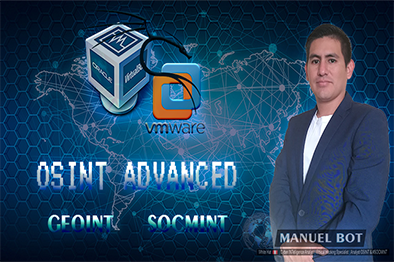
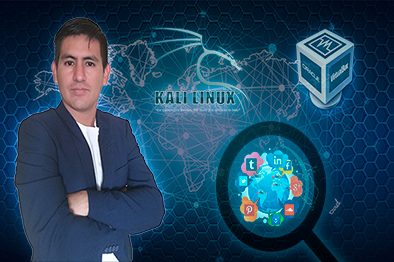
agregar curso

diff --git a/Curso-avanzado.html b/Curso-avanzado.html
@@ -1,0 +1,207 @@
+<!DOCTYPE HTML>
+<html>
+<head>
+<title>SOCMINT AVANZADO. APRENDE DESDE CERO A REALIZAR INVESTIGACIONES EN REDES SOCIALES</title>
+<meta charset="UTF-8">
+<meta name="viewport" content="width=device-width, initial-scale=1, user-scalable=no" />
+<link rel="shortcut icon" href="css/favicon.ico" type="image/x-icon" />	
+<link rel="stylesheet" href="assets/css/main.css" />
+
+	<script type="text/javascript" src="js/jquery-3.3.1.min.js"></script>
+	<script src="js/jquery.snow.js"></script>
+	<script>
+		$(document).ready( function(){
+		$.fn.snow({
+		});
+		});
+		</script>
+</head>
+<body>
+	
+
+<!-- Wrapper -->
+<div id="wrapper">
+
+
+<div class="content">
+<div class="inner">
+<div align="center">	
+<h1>SOCMINT AVANZADO. <BR>
+	APRENDE DESDE 0 A REALIZAR INVESTIGACIONES <BR>EN REDES SOCIALES</h1>
+</div>
+<div align="center">	
+  <img src="images/SOCMINT AVANZADO.png" width="650" height="350"/><br>
+</div>
+	<div align="center">
+	Aprendizaje continuo y avanzado en este ámbito digital, empezando desde una securización <br>
+	hasta la identificación digital de personas.
+		<br>
+		</div>
+	<div align="center">	<br>
+<h1> Fecha y Hora de lanzamiento: <br></h1>
+⭐ LUNES 29 DE MAYO - 08:00 HORAS (UTC -5 PERÚ)	 <br><br>	</div>
+		<div align="center">
+			
+<h1> LO QUE APRENDERÁS: <br></h1>		</div>
+	
+📘 Describirás, comprenderás e interiorizar las diversas metodologías para iniciar ciberinvestigaciones de forma segura, anónima, legal y profesional.<br>
+📘 Conocerás cómo securizar nuestra identidad, entorno de trabajo de manera efectiva para la ciberinvestigación de una persona, organización o empresa.<br>
+📘 Dominarás las diversas técnicas, métodos y herramientas avanzadas en SOCMINT desde búsquedas básicas hasta el uso de Sistemas Operativos en Máquinas Virtuales.<br>
+📘 Profundizarás su experiencia en la búsqueda de información a través de buscadores, metabuscadores especialmente para OSINT y SOCMINT. <br>
+📘 Aprenderás a utilizar Técnicas y herramientas de búsqueda en Redes Sociales: Facebook, Instagram, Twitter, Linkedin, YouTube, TikTok, Discord y Skype. <br>
+📘 Aprenderás a utilizar Técnicas y herramientas de búsqueda en las diferentes aplicaciones de mensajería como Telegram, WhastApp y WeChat.<br>
+📘 Aprenderás a realizar monitoreo de información con Herramientas aplicadas en OSINT. <br>
+📘 Conocerás y aplicarás Técnicas y herramientas de búsqueda de datos e información de targets (emails, teléfonos, nombres de usuarios, entre otros)<br>
+📘 Conocerás el ambiente de la obtención de información a través de Bots de Telegram, empezando siempre desde una buena securización de nuestra huella digital.<br>
+📘 Otros.<br>
+	
+	
+<div align="center">	
+<h1> ACERCA DE ESTE CURSO: <br></h1>
+</div>
+	
+🔎 Más de 22 clases en Total.<br>
+🔎 Más de 22 recursos descargables (Presentaciones, Recursos, entre otros.)
+🔎 Videos asíncronos de 11 horas de duración total.<br>
+<div align="center">	<br>
+	
+<h1> REQUISITOS: <br></h1>
+</div>
+👨🏻💻 No se necesita contar con experiencia en programación ni en informática.<br>
+👨🏻💻 Contar con muchas ganas de aprender.<br>
+👨🏻💻 Contar con una computadora o equipo portatil para el desarrollo del Laboratorio OSINT y SOCMINT.<br>
+
+<div align="center">	<br>
+<h1> Descripción: <br></h1>
+</div>	
+<div align="center">	<br>
+El empleo de métodos, técnicas y herramientas OSINT dedicados exclusivamente a las redes sociales (SOCMINT) se ha visto <br>
+incrementado de manera exponencial, todo esto es debido a que su uso está cada vez más extendido en distintos campos de: <br>
+Ciberinteligencia y Ciberseguridad. <br> <br>
+
+El único fin de realizar una ciberinvestigación en este campo funcional es producir inteligencia a través de la obtención <br>
+de información detallada de personas, números telefónicos, correos electrónicos, imágenes, geolocalización, entre otros, <br>
+por lo cual también es muy indispensable realizar ciberinvestigaciones exclusivamente en las diferentes redes sociales como: <br>
+Facebook, Twitter, LinkedIn, Youtube, TikTok, Discord, Skype, Telegram, entre otros..<br><br>
+	
+El punto radica en que no todo usuario cuenta con esos conocimientos para la búsqueda de información de Fuentes Abiertas (OSINT)<br>
+aplicadas especialmente a las Redes Sociales (SOCMINT), ni tampoco sabe configurar la privacidad y seguridad de la misma, <br>
+	exponiendo su información al momento de realizar una ciberinvestigación. Aa raíz de esto es que surgió la necesidad de <br>
+	enseñar todos estos temas a través de este curso avanzado denominado "SOCMINT AVANZADO. Aprende desde 0 a investigar en las <br>
+	diferentes Redes Sociales y en otros entornos digital". Es decir, producir inteligencia a base de conocimientos en <br>
+	fuente abierta (OSINT) y también a través de Redes Sociales (SOCMINT) <br> <br>
+
+Por ese motivo, consideramos necesaria una formación avanzada en esta materia y así poder reunir de manera certera, precisa<br>
+	y detallada cumpliendo con ciertas regulaciones específicas (como la Ley de Protección de Datos de la UE o la Ley de Privacidad<br>
+	del Consumidor de California). 
+	<br><br> </div>
+
+<div align="center">
+</div><br>
+<div align="center">	
+<h1> ¿Para quién es este curso?<br></h1>
+</div>	
+<div align="center">	
+	⭐ Analistas
+	⭐ Investigadores
+	⭐ Abogados
+	⭐ Público en general
+</div>
+	
+<div align="center"><br>	
+<h1> ¿Cómo puedo adquirir este Curso Avanzado?<br></h1>
+
+📘 El curso se encuentra próxima a lanzarse en una Determinada plataforma digital. <br>
+	
+📘 Por ende los precios de preventa se encuentran con los siguientes descuentos: <br><br>
+	
+	<h3>NACIONALES (Perú):<br></h3>
+	
+	⭐ 30% de descuento (S/. 99.90) - Precio de Preventa<br>
+	⭐ 35% de descuento (S/. 89.90) - Si ya formas parte de mis cursos.<br><br>
+	
+	<h3>INTERNACIONALES:<br></h3>
+	
+⭐ 30% de descuento (US$ 50.00) - Precio de Preventa<br>
+⭐ 35% de descuento (US$ 45.00) - Si ya formas parte de mis cursos.<br><br>
+	
+<h3>Precio Original en Plataforma: US$ 74.99 </h3>
+	
+<br>
+
+<h1> Métodos de Pago:<br></h1>
+
+⭐ Nacionales: Pago o transferencia Interbancario<br>
+⭐ Internacionales: Pago vía <a href="https://www.paypal.com/paypalme/ManuelBot59" target="_blank">Paypal</a> 
+	
+<br><br>	
+<h1> Datos de contacto:<br></h1>
+	
+Previa coordinación y validación de información con los siguientes datos de contacto: <br>
+	
+⭐ <a href="https://t.me/ManuelBot59" target="_blank">Mi cuenta en Telegram  </a> 
+⭐ <a href="https://t.me/ManuelBot59" target="_blank">Mi cuenta en Twitter  </a> 	
+⭐ ManuelBot59@gmail.com
+
+</div>		
+
+<div align="center"><br>	
+<h1> ¡Nos vemos en el CURSO!<br></h1>
+</div>			
+<div align="center"><br>	
+<h2> ¡MUCHAS GRACIAS!<br></h2>
+</div>	
+<div align="center">
+  <img src="images/ManuelBot59.png" width="200" height="200"/><br>
+  <img src="images/ManuelB59.png" width="450" height="120"/><br>
+</div>
+</div>
+ 
+</div>  
+
+<!-- Footer -->
+<footer id="footer">
+<p class="copyright">
+&copy; Copyright © 2023. Todos los derechos reservados.<br /></p>
+</footer>
+
+</div>
+
+<!-- BG -->
+<div id="bg"></div>
+
+<!-- Scripts -->
+<script src="assets/js/jquery.min.js"></script>
+<script src="assets/js/skel.min.js"></script>
+<script src="assets/js/util.js"></script>
+<script src="assets/js/main.js"></script>
+ <SCRIPT language=Javascript>
+		function disableselect(e){
+		return false
+		}
+		function reEnable(){
+		return true
+		}
+		document.onselectstart=new Function ("return false")
+		if (window.sidebar){
+		document.onmousedown=disableselect
+		document.onclick=reEnable
+		}
+</SCRIPT>
+		<script language="Javascript">
+		document.oncontextmenu = function(){return false}
+		</script>
+		<script language="JavaScript1.2"> 
+		window.moveTo(0,0); 
+		if (document.all) { 
+		top.window.resizeTo(screen.availWidth,screen.availHeight); 
+		} 
+		else if (document.layers||document.getElementById) { 
+		if (top.window.outerHeight<screen.availHeight||top.window.outerWidth<screen.availWidth){
+		 top.window.outerHeight = screen.availHeight; 
+		top.window.outerWidth = screen.availWidth; 
+		} 
+		} 
+		</script> 
+</body>
+</html>

diff --git a/ManuelBot59.html b/ManuelBot59.html
@@ -504,7 +504,7 @@
 		</div>
 		<div class="page-heading">
 			<div class="container">
-				<h2>CURSOS OSINT:</h2>
+				<h2>TALLERES DE FORMACIÓN:</h2>
 			</div>
 		</div>
 		<!-- Popular courses End -->
@@ -513,36 +513,40 @@
 				<div class="courses">
 					<div class="owl-one owl-carousel">
 						<div class="box-wrap" itemprop="event" itemscope itemtype=" http://schema.org/Course">
-							<div class="img-wrap" itemprop="image"><img src="images/ManuelBot1.png" alt="courses picture"></div>
-								<a href="https://www.udemy.com/course/aprende-a-usar-bots-de-telegram-para-investigaciones-osint/?referralCode=534A8C9844244123285E" target="_blank" class="learn-desining-banner">BOTS de Telegram para Investigaciones OSINT >>></a>
-							<div class="box-body" itemprop="description">
-								<p><br>Con este taller técnico de formación aprenderás a securizar tu entorno de trabajo para que empieces a realizar investigaciones OSINT, a través de BOTS de Telegram.</p>
-							</div>
-						</div>
-
-						<div class="box-wrap" itemprop="event" itemscope itemtype=" http://schema.org/Course">
 							<div class="img-wrap" itemprop="image"><img src="images/ManuelBot2.png" alt="courses picture"></div>
-								<a href="https://www.udemy.com/course/aprende-a-obtener-informacion-osint-en-redes-sociales/?referralCode=0FDC57271907FFF85B25" target="_blank" class="learn-desining-banner">SOCMINT. Aprende OSINT en Redes Sociales >>></a>
+								<a href="https://www.udemy.com/course/aprende-a-obtener-informacion-osint-en-redes-sociales/?referralCode=0FDC57271907FFF85B25" target="_blank" class="learn-desining-banner" itemprop="name">SOCMINT. Aprende OSINT en Redes Sociales >>></a>
 							<div class="box-body" itemprop="description">
 								<p><br>Con este taller técnico de formación aprenderás a securizar tu entorno de trabajo para que empieces a realizar investigaciones OSINT, aplicado especialmente a Redes Sociales.</p>
 							</div>
 						</div>
 
+						
+						<div class="box-wrap" itemprop="event" itemscope itemtype=" http://schema.org/Course">
+							<div class="img-wrap"  itemprop="image"><img src="images/ManuelBot3.png" alt="courses picture"></div>
+								<a href="#" target="_blank" class="learn-desining-banner" itemprop="name">SOCMINT AVANZADO. Aprende desde 0 >>></a>
+							<div class="box-body" itemprop="description">
+								<p><br>Aprende desde 0 la Inteligencia de Redes Sociales (SOCMINT) desde la securización de nuestra huella digital, entorno de trabajo con máquinas virtuales, para la ejecución de herramientas avanzadas.</p>
+							</div>
+						</div>
+						
+						
+						<div class="box-wrap" itemprop="event" itemscope itemtype=" http://schema.org/Course">
+							<div class="img-wrap" itemprop="image"><img src="images/ManuelBot1.png" alt="courses picture"></div>
+								<a href="https://www.udemy.com/course/aprende-a-usar-bots-de-telegram-para-investigaciones-osint/?referralCode=534A8C9844244123285E" target="_blank" class="learn-desining-banner" itemprop="name">BOTS de Telegram para Investigaciones OSINT >>></a>
+							<div class="box-body" itemprop="description">
+								<p><br>Con este taller técnico de formación aprenderás a securizar tu entorno de trabajo para que empieces a realizar investigaciones OSINT, a trav�s de BOTS de Telegram.</p>
+							</div>
+						</div>
+						
 						<div class="box-wrap" itemprop="event" itemscope itemtype=" http://schema.org/Course">
 							<div class="img-wrap"  itemprop="image"><img src="images/ManuelBot4.png" alt="courses picture"></div>
-								<a href="#" target="_blank" class="learn-desining-banner">OSINT. Importancia de Bots Telegram >>></a>
+								<a href="https://www.udemy.com/course/aprende-la-importancia-de-bots-de-telegram-para-investigaciones-osint/?referralCode=34A2EA8DD4D58F1BA397" target="_blank" class="learn-desining-banner" itemprop="name">OSINT. Importancia de Bots Telegram >>></a>
 							<div class="box-body" itemprop="description">
 								<p><br>Aprende sobre la Importancia de los Bots de Telegram para realizar diversas Investigaciones OSINT/SOCMINT, todo a través de este taller de formación ¡TOTALMENTE GRATUITO!</p>
 							</div>
 						</div>
 
-						<div class="box-wrap" itemprop="event" itemscope itemtype=" http://schema.org/Course">
-							<div class="img-wrap"  itemprop="image"><img src="images/ManuelBot3.png" alt="courses picture"></div>
-								<a href="#" target="_blank" class="learn-desining-banner">OSINT AVANZADO. (PRÓXIMAMENTE!) >>></a>
-							<div class="box-body" itemprop="description">
-								<p><br>Aprende #OSINT #GEOINT #SOCMINT desde la instalación de una máquina virtual, hasta la instalación de repositorios open source para obtener excelentes resultados (Ejemplo: Proyecto iKy)</p>
-							</div>
-						</div>
+
 					</div>
 				</div>
 			</div>

diff --git a/Formacion.html b/Formacion.html
@@ -64,14 +64,6 @@
 				<div class="courses">
 					<div class="owl-one owl-carousel">
 						<div class="box-wrap" itemprop="event" itemscope itemtype=" http://schema.org/Course">
-							<div class="img-wrap" itemprop="image"><img src="images/ManuelBot1.png" alt="courses picture"></div>
-								<a href="https://www.udemy.com/course/aprende-a-usar-bots-de-telegram-para-investigaciones-osint/?referralCode=534A8C9844244123285E" target="_blank" class="learn-desining-banner" itemprop="name">BOTS de Telegram para Investigaciones OSINT >>></a>
-							<div class="box-body" itemprop="description">
-								<p><br>Con este taller técnico de formación aprenderás a securizar tu entorno de trabajo para que empieces a realizar investigaciones OSINT, a trav�s de BOTS de Telegram.</p>
-							</div>
-						</div>
-
-						<div class="box-wrap" itemprop="event" itemscope itemtype=" http://schema.org/Course">
 							<div class="img-wrap" itemprop="image"><img src="images/ManuelBot2.png" alt="courses picture"></div>
 								<a href="https://www.udemy.com/course/aprende-a-obtener-informacion-osint-en-redes-sociales/?referralCode=0FDC57271907FFF85B25" target="_blank" class="learn-desining-banner" itemprop="name">SOCMINT. Aprende OSINT en Redes Sociales >>></a>
 							<div class="box-body" itemprop="description">
@@ -79,6 +71,24 @@
 							</div>
 						</div>
 
+						
+						<div class="box-wrap" itemprop="event" itemscope itemtype=" http://schema.org/Course">
+							<div class="img-wrap"  itemprop="image"><img src="images/ManuelBot3.png" alt="courses picture"></div>
+								<a href="#" target="_blank" class="learn-desining-banner" itemprop="name">SOCMINT AVANZADO. Aprende desde 0 >>></a>
+							<div class="box-body" itemprop="description">
+								<p><br>Aprende desde 0 la Inteligencia de Redes Sociales (SOCMINT) desde la securización de nuestra huella digital, entorno de trabajo con máquinas virtuales, para la ejecución de herramientas avanzadas.</p>
+							</div>
+						</div>
+						
+						
+						<div class="box-wrap" itemprop="event" itemscope itemtype=" http://schema.org/Course">
+							<div class="img-wrap" itemprop="image"><img src="images/ManuelBot1.png" alt="courses picture"></div>
+								<a href="https://www.udemy.com/course/aprende-a-usar-bots-de-telegram-para-investigaciones-osint/?referralCode=534A8C9844244123285E" target="_blank" class="learn-desining-banner" itemprop="name">BOTS de Telegram para Investigaciones OSINT >>></a>
+							<div class="box-body" itemprop="description">
+								<p><br>Con este taller técnico de formación aprenderás a securizar tu entorno de trabajo para que empieces a realizar investigaciones OSINT, a trav�s de BOTS de Telegram.</p>
+							</div>
+						</div>
+						
 						<div class="box-wrap" itemprop="event" itemscope itemtype=" http://schema.org/Course">
 							<div class="img-wrap"  itemprop="image"><img src="images/ManuelBot4.png" alt="courses picture"></div>
 								<a href="https://www.udemy.com/course/aprende-la-importancia-de-bots-de-telegram-para-investigaciones-osint/?referralCode=34A2EA8DD4D58F1BA397" target="_blank" class="learn-desining-banner" itemprop="name">OSINT. Importancia de Bots Telegram >>></a>
@@ -87,13 +97,7 @@
 							</div>
 						</div>
 
-						<div class="box-wrap" itemprop="event" itemscope itemtype=" http://schema.org/Course">
-							<div class="img-wrap"  itemprop="image"><img src="images/ManuelBot3.png" alt="courses picture"></div>
-								<a href="#" target="_blank" class="learn-desining-banner" itemprop="name">OSINT AVANZADO. (PRÓXIMAMENTE!) >>></a>
-							<div class="box-body" itemprop="description">
-								<p><br>Aprende #OSINT #GEOINT #SOCMINT desde la instalación de una máquina virtual, hasta la instalación de repositorios open source para obtener excelentes resultados (Ejemplo: Proyecto iKy)</p>
-							</div>
-						</div>
+
 					</div>
 				</div>
 			</div>

diff --git a/index.html b/index.html
@@ -1,7 +1,7 @@
 <!DOCTYPE HTML>
 <html>
 <head>
-<title>OSINT Profile Manuel Bot</title>
+<title>SOCMINT. Perfil Personal de Manuel Bot</title>
 <meta charset="UTF-8">
 <meta name="viewport" content="width=device-width, initial-scale=1, user-scalable=no" />
 <link rel="shortcut icon" href="css/favicon.ico" type="image/x-icon" />	
@@ -29,14 +29,13 @@
 <div class="inner">
 <h2>¡Bienvenido!</h2>
 	<div align="center">
-  <img src="images/ManuelBot59.png" width="220" height="220"/><br>
-  <img src="images/ManuelB59.png" width="600" height="150"/><br>
-</div>
-<br>		
-<h2> Acerca de mi: <br></h2>
+  <img src="images/ManuelBot59.png" width="200" height="200"/><br>
+  <img src="images/ManuelB59.png" width="450" height="100"/><br>
+</div><br>		
+<h2> Acerca de mi: </h2>
 ⭐ Ponente y docente en Inteligencia de Fuentes Abiertas (OSINT)<br>
-👨🏻💻 Desarrollador de Herramientas #OSINT #SOCMINT<br>
-🕵 Analista e Investigador #OSINT y #SOCMINT<br>
+👨🏻💻 Desarrollador y creador de Plataformas OSINT y SOCMINT<br>
+🕵 Analista y Especialista en OSINT y SOCMINT<br>
 🔎 Analista táctico en Ciberinteligencia<br>
 📘 Especialista en Ethical Hacking
 </div>
@@ -44,9 +43,9 @@
 <nav>
 <ul>
 <li><a href="./ManuelBot59.html">Recurso WEB OSINT</a></li>
-<li><a href="./Formacion.html" target="_blank">TALLER DE FORMACIÓN</a></li>	
+<li><a href="./Formacion.html" target="_blank">TALLERES DE FORMACIÓN</a></li>	
 <li><a href="https://t.me/OsintManuelBot59" target="_blank">Canal en TELEGRAM</a></li>
-<li><a href="#TCS">ACERCA DE</a></li>
+<li><a href="#TCS">ACERCA DE MI</a></li>
 </ul>
 </nav>
 </header>
@@ -79,8 +78,7 @@ MANUEL BOT<br /><br />
 <!-- Footer -->
 <footer id="footer">
 <p class="copyright">
-&copy; Copyright 2023. All rights reserved<br />
-Sitio web creado, diseñado y desarrollado por ManuelBot</a></p>
+&copy; Manuel Bot © 2023 - Todos los Derechos reservados<br /></a></p>
 </footer>
 
 </div>

diff --git a/Webinar2023.html b/Webinar2023.html
@@ -126,7 +126,7 @@ Con toda esta experiencia en investigación OSINT, es que he creado este Webinar
 </div>	
 <div align="center">
   <img src="images/ManuelBot59.png" width="150" height="150"/><br>
-  <img src="images/ManuelBot2.png" width="350" height="65"/><br>
+  <img src="images/ManuelB59.png" width="400" height="100"/><br>
 </div>
 </div>
  
